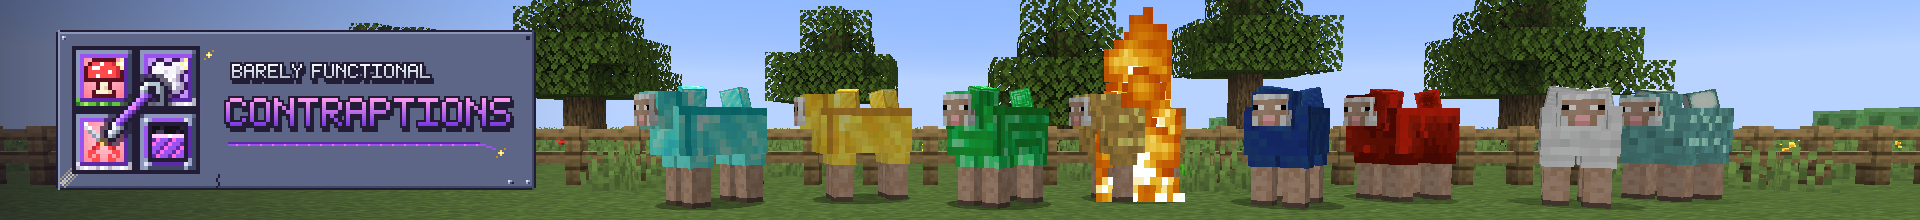
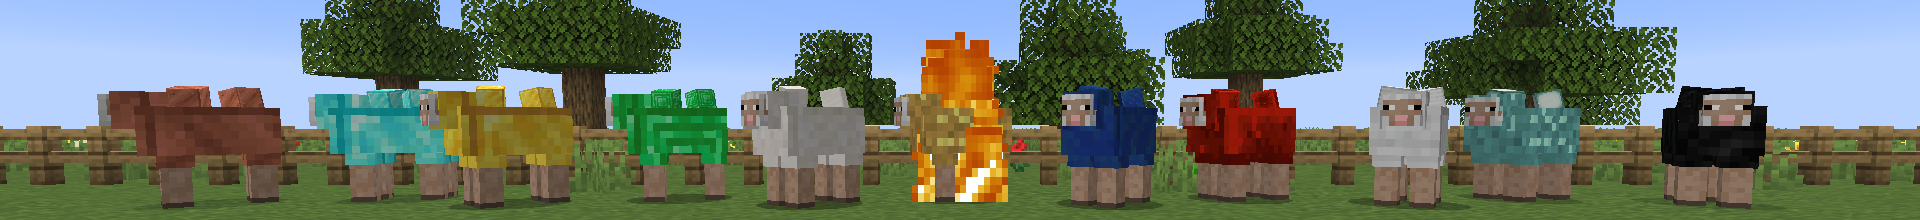
Profile cover: sheep only
docs/profile_cover.png is now just the sheep: eleven resourceful sheep
(copper, diamond, gold, emerald, quartz, blaze, lapis, redstone, iron,
glow ink, coal) across the whole 1920x220 band, from a new harness scene
(-PharnessScene=cover_sheep). The version with the logo is kept as
docs/profile_cover_logo.png (tools/make_cover.py --logo).

Claude-Session: https://claude.ai/code/session_012iurxobutw9xMP3SqHHLFE

diff --git a/src/main/java/com/jax3/barelyfunctionalcontraptions/sheep/client/DevScreenshotHarness.java b/src/main/java/com/jax3/barelyfunctionalcontraptions/sheep/client/DevScreenshotHarness.java
@@ -302,7 +302,11 @@ public final class DevScreenshotHarness {
             return;
         }
         if ("cover".equals(System.getProperty("barelyfunctionalcontraptions.screenshotHarness.scene"))) {
-            coverTick(mc, server);
+            coverTick(mc, server, false);
+            return;
+        }
+        if ("cover_sheep".equals(System.getProperty("barelyfunctionalcontraptions.screenshotHarness.scene"))) {
+            coverTick(mc, server, true);
             return;
         }
         if ("fleece_trawler".equals(System.getProperty("barelyfunctionalcontraptions.screenshotHarness.scene"))) {
@@ -5304,13 +5308,19 @@ public final class DevScreenshotHarness {
 
     /** The resources of the cover banner's sheep, left to right. */
     private static final String[] COVER_SHEEP = {"diamond", "gold", "emerald", "blaze", "lapis", "redstone", "iron", "glow_ink"};
+    /** ... and of the sheep-only banner's longer row, across the whole width. */
+    private static final String[] COVER_SHEEP_WIDE = {"copper", "diamond", "gold", "emerald", "quartz", "blaze", "lapis", "redstone", "iron",
+            "glow_ink", "coal"};
 
     /**
      * Resourceful sheep in a row on a grass field, side-on and turned a little towards the camera, with a fence and trees
      * behind: the picture for the profile cover banner, which {@code tools/make_cover.py} crops to 1920x220 and puts the
      * logo on. Run at 1920x1080: {@code -PharnessScene=cover -PharnessWidth=1920 -PharnessHeight=1080}.
      */
-    private static void coverTick(Minecraft mc, MinecraftServer server) {
+    private static void coverTick(Minecraft mc, MinecraftServer server, boolean wide) {
+        String[] row = wide ? COVER_SHEEP_WIDE : COVER_SHEEP;
+        // The logo version's row starts left of the middle, leaving room for the logo; the sheep-only one is centred.
+        double first = wide ? -(row.length - 1) * 1.92 / 2 : -3.2, spacing = wide ? 1.92 : 1.85;
         switch (tick) {
             case 60 -> server.execute(() -> {
                 ServerPlayer player = server.getPlayerList().getPlayers().getFirst();
@@ -5349,13 +5359,13 @@ public final class DevScreenshotHarness {
                     server.getCommands().performPrefixedCommand(server.createCommandSourceStack(),
                             String.format(java.util.Locale.ROOT, "place feature minecraft:oak %d %d %d", o.getX() + t[0], o.getY(), o.getZ() + t[1]));
                 }
-                for (int i = 0; i < COVER_SHEEP.length; i++) {
+                for (int i = 0; i < row.length; i++) {
                     Sheep sh = Vanilla.SHEEP.create(level, net.minecraft.world.entity.EntitySpawnReason.COMMAND);
                     // Facing left (west) and a little towards the camera, alternately more and less.
-                    sh.snapTo(o.getX() - 3.2 + i * 1.85, o.getY(), o.getZ() + (i % 2 == 0 ? 0.3 : -0.3), i % 2 == 0 ? 55 : 75, 0);
+                    sh.snapTo(o.getX() + first + i * spacing, o.getY(), o.getZ() + (i % 2 == 0 ? 0.3 : -0.3), i % 2 == 0 ? 55 : 75, 0);
                     sh.setYHeadRot(i % 2 == 0 ? 40 : 70);
                     sh.setYBodyRot(i % 2 == 0 ? 55 : 75);
-                    SheepInfusionEvents.setInfusion(sh, new SheepInfusion(Optional.of(ResourcefulSheep.id(COVER_SHEEP[i])), 9, 0));
+                    SheepInfusionEvents.setInfusion(sh, new SheepInfusion(Optional.of(ResourcefulSheep.id(row[i])), 9, 0));
                     sh.setNoAi(true);
                     sh.setPersistenceRequired();
                     level.addFreshEntity(sh);
@@ -5364,7 +5374,8 @@ public final class DevScreenshotHarness {
             case 70 -> setHudHidden(mc, true);
             case 80 -> command(server, String.format(java.util.Locale.ROOT, "tp @a %.2f %.2f %.2f 180 3", origin.getX() + 0.0, origin.getY() - 0.6, origin.getZ() + 9.0));
             case 84 -> McClient.clearChat(mc);
-            case 200 -> shot(mc, "cover_raw");
+            case 200 -> shot(mc, wide ? "cover_sheep_raw" : "cover_raw");
+            case 201 -> { if (wide) mc.stop(); }
             // The profile picture: close up on the diamond sheep's face, from in front and a little to its side, the
             // rest of the row behind it. (It faces yaw 55: towards the camera's side and the left.)
             case 202 -> {

diff --git a/tools/make_cover.py b/tools/make_cover.py
@@ -1,26 +1,35 @@
-"""Makes the 1920x220 profile cover banner: a band through the cover scene's sheep (run/screenshots/cover_raw.png,
-from -PharnessScene=cover -PharnessWidth=1920 -PharnessHeight=1080) with the mod's logo banner on the left.
+"""Makes the 1920x220 profile cover banner.
 
-Run from the repository root: python3 tools/make_cover.py [top of the band, default 380]
+- Sheep only (the default): a band through the cover_sheep scene's row of eleven resourceful sheep
+  (run/screenshots/cover_sheep_raw.png, from -PharnessScene=cover_sheep -PharnessWidth=1920 -PharnessHeight=1080),
+  saved as docs/profile_cover.png.
+- With --logo: a band through the cover scene (run/screenshots/cover_raw.png, -PharnessScene=cover), with the mod's
+  logo banner on the left, saved as docs/profile_cover_logo.png.
+
+Run from the repository root: python3 tools/make_cover.py [--logo] [top of the band, default 380]
 """
 import sys
 from PIL import Image
 
 WIDTH, HEIGHT = 1920, 220
-top = int(sys.argv[1]) if len(sys.argv) > 1 else 380
+args = [a for a in sys.argv[1:] if a != "--logo"]
+logo = "--logo" in sys.argv[1:]
+top = int(args[0]) if args else 380
 
-scene = Image.open("run/screenshots/cover_raw.png").convert("RGBA")
+scene = Image.open("run/screenshots/cover_raw.png" if logo else "run/screenshots/cover_sheep_raw.png").convert("RGBA")
 cover = scene.crop((0, top, WIDTH, top + HEIGHT))
 
-# Darken the left, where the logo goes, fading out before the first sheep.
-shade = Image.new("RGBA", (WIDTH, HEIGHT))
-for x in range(WIDTH):
-    a = 0 if x > 640 else int(150 * (1 - x / 640) ** 1.4)
-    for y in range(HEIGHT):
-        shade.putpixel((x, y), (16, 12, 28, a))
-cover.alpha_composite(shade)
+if logo:
+    # Darken the left, where the logo goes, fading out before the first sheep.
+    shade = Image.new("RGBA", (WIDTH, HEIGHT))
+    for x in range(WIDTH):
+        a = 0 if x > 640 else int(150 * (1 - x / 640) ** 1.4)
+        for y in range(HEIGHT):
+            shade.putpixel((x, y), (16, 12, 28, a))
+    cover.alpha_composite(shade)
+    plate = Image.open("docs/banner.png").convert("RGBA")  # 480x160, the pixel-art title plate
+    cover.alpha_composite(plate, (56, (HEIGHT - plate.height) // 2))
 
-logo = Image.open("docs/banner.png").convert("RGBA")  # 480x160, the pixel-art title plate
-cover.alpha_composite(logo, (56, (HEIGHT - logo.height) // 2))
-cover.convert("RGB").save("docs/profile_cover.png")
-print("docs/profile_cover.png", cover.size)
+out = "docs/profile_cover_logo.png" if logo else "docs/profile_cover.png"
+cover.convert("RGB").save(out)
+print(out, cover.size)
